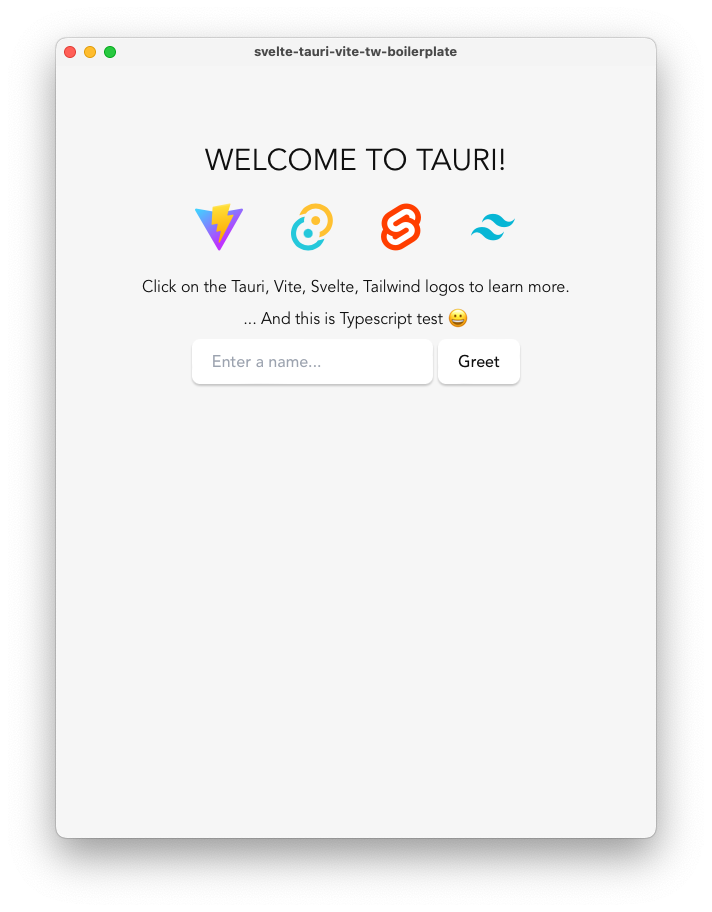
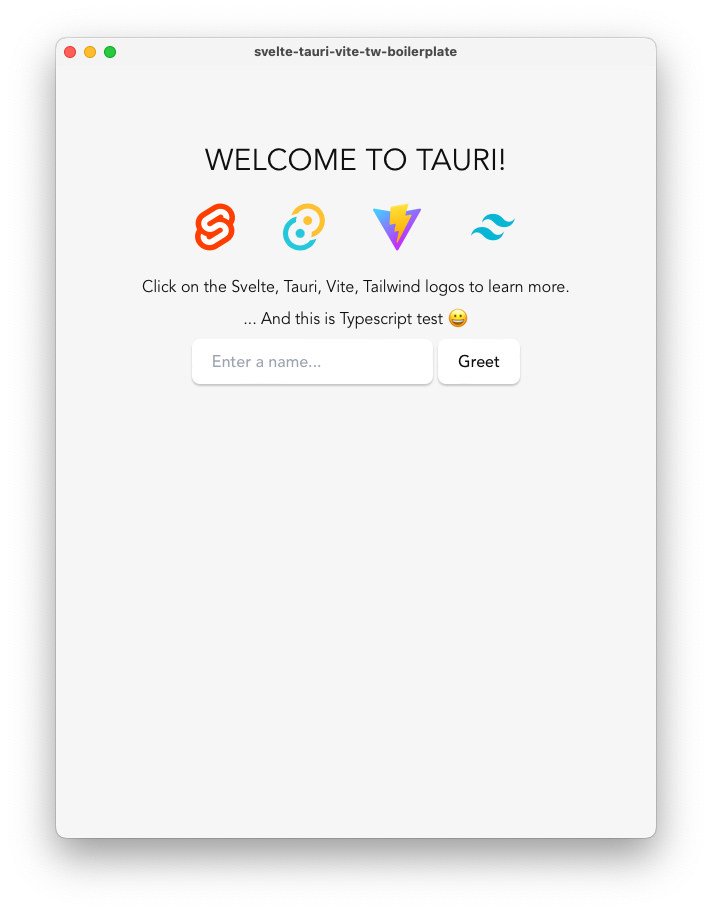
Updated README and image

diff --git a/src/App.svelte b/src/App.svelte
@@ -7,21 +7,21 @@
   <h1 class="text-3xl uppercase">Welcome to Tauri!</h1>
 
   <div class="row">
-    <a href="https://vitejs.dev" target="_blank">
-      <img src="/vite.svg" class="logo vite" alt="Vite Logo" />
+    <a href="https://svelte.dev" target="_blank">
+      <img src="/svelte.svg" class="logo svelte" alt="Svelte Logo" />
     </a>
     <a href="https://tauri.app" target="_blank">
       <img src="/tauri.svg" class="logo tauri" alt="Tauri Logo" />
     </a>
-    <a href="https://svelte.dev" target="_blank">
-      <img src="/svelte.svg" class="logo svelte" alt="Svelte Logo" />
+    <a href="https://vitejs.dev" target="_blank">
+      <img src="/vite.svg" class="logo vite" alt="Vite Logo" />
     </a>
     <a href="https://tailwindcss.com/" target="_blank">
       <img src="/tailwind.svg" class="logo tw" alt="Tailwind Logo" />
     </a>
   </div>
 
-  <p>Click on the Tauri, Vite, Svelte, Tailwind logos to learn more.</p>
+  <p>Click on the Svelte, Tauri, Vite, Tailwind logos to learn more.</p>
 
   <div class="mt-2">
     <p>... And this is {ts} test 😀</p>

diff --git a/README.md b/README.md
@@ -1,14 +1,12 @@
-# Tauri + Svelte + Typescript + Vite + TailwindCSS
+# Svelte + Tauri + Vite + TailwindCSS + Typescript
 
-<div align="center">
-![Vite](https://img.shields.io/badge/vite-%23646CFF.svg?style=for-the-badge&logo=vite&logoColor=white)
-![Tauri](https://img.shields.io/badge/tauri-%2324C8DB.svg?style=for-the-badge&logo=tauri&logoColor=%23FFFFFF)
 ![Svelte](https://img.shields.io/badge/svelte-%23f1413d.svg?style=for-the-badge&logo=svelte&logoColor=white)
-![TypeScript](https://img.shields.io/badge/typescript-%23007ACC.svg?style=for-the-badge&logo=typescript&logoColor=white)
+![Tauri](https://img.shields.io/badge/tauri-%2324C8DB.svg?style=for-the-badge&logo=tauri&logoColor=%23FFFFFF)
+![Vite](https://img.shields.io/badge/vite-%23646CFF.svg?style=for-the-badge&logo=vite&logoColor=white)
 ![TailwindCSS](https://img.shields.io/badge/tailwindcss-%2338B2AC.svg?style=for-the-badge&logo=tailwind-css&logoColor=white)
-</div>
+![TypeScript](https://img.shields.io/badge/typescript-%23007ACC.svg?style=for-the-badge&logo=typescript&logoColor=white)
 
-This boilerplate should help get you started developing with <a href="https://tauri.app">Tauri</a>, <a href="https://svelte.dev">Svelte</a> and <a href="https://www.typescriptlang.org">TypeScript</a> in <a href="https://vitejs.dev">Vite</a> with <a href="https://tailwindcss.com">TailwindCSS</a>! It also comes with DaisyUI 🌼 which you can choose not to use.
+This boilerplate should help get you started developing with <a href="https://tauri.app">Tauri</a>, <a href="https://svelte.dev">Svelte</a> and <a href="https://www.typescriptlang.org">TypeScript</a> in <a href="https://vitejs.dev">Vite</a> with <a href="https://tailwindcss.com">TailwindCSS</a>! It also comes with DaisyUI 🌼, which you can choose not to use.
 
 <div align="center">
   <img src="./static/img.png" alt="Boilerplate preview"/>
@@ -20,6 +18,8 @@ This boilerplate should help get you started developing with <a href="https://ta
 Clone the repo, or download as a zip file:
 
 ```bash
+git clone https://github.com/yjung199/svelte-tauri-vite-tw-boilerplate.git your-project-name
+cd your-project-name
 yarn
 ```
 
@@ -46,6 +46,8 @@ yarn tauri help
 ```
 
 ## Disabling DaisyUI
+
+If you wish to disable DaisyUI, to use other TailwindCSS components, you can do so by removing the plugin from `tailwind.config.js`:
 
 ```json
 // tailwind.config.js
